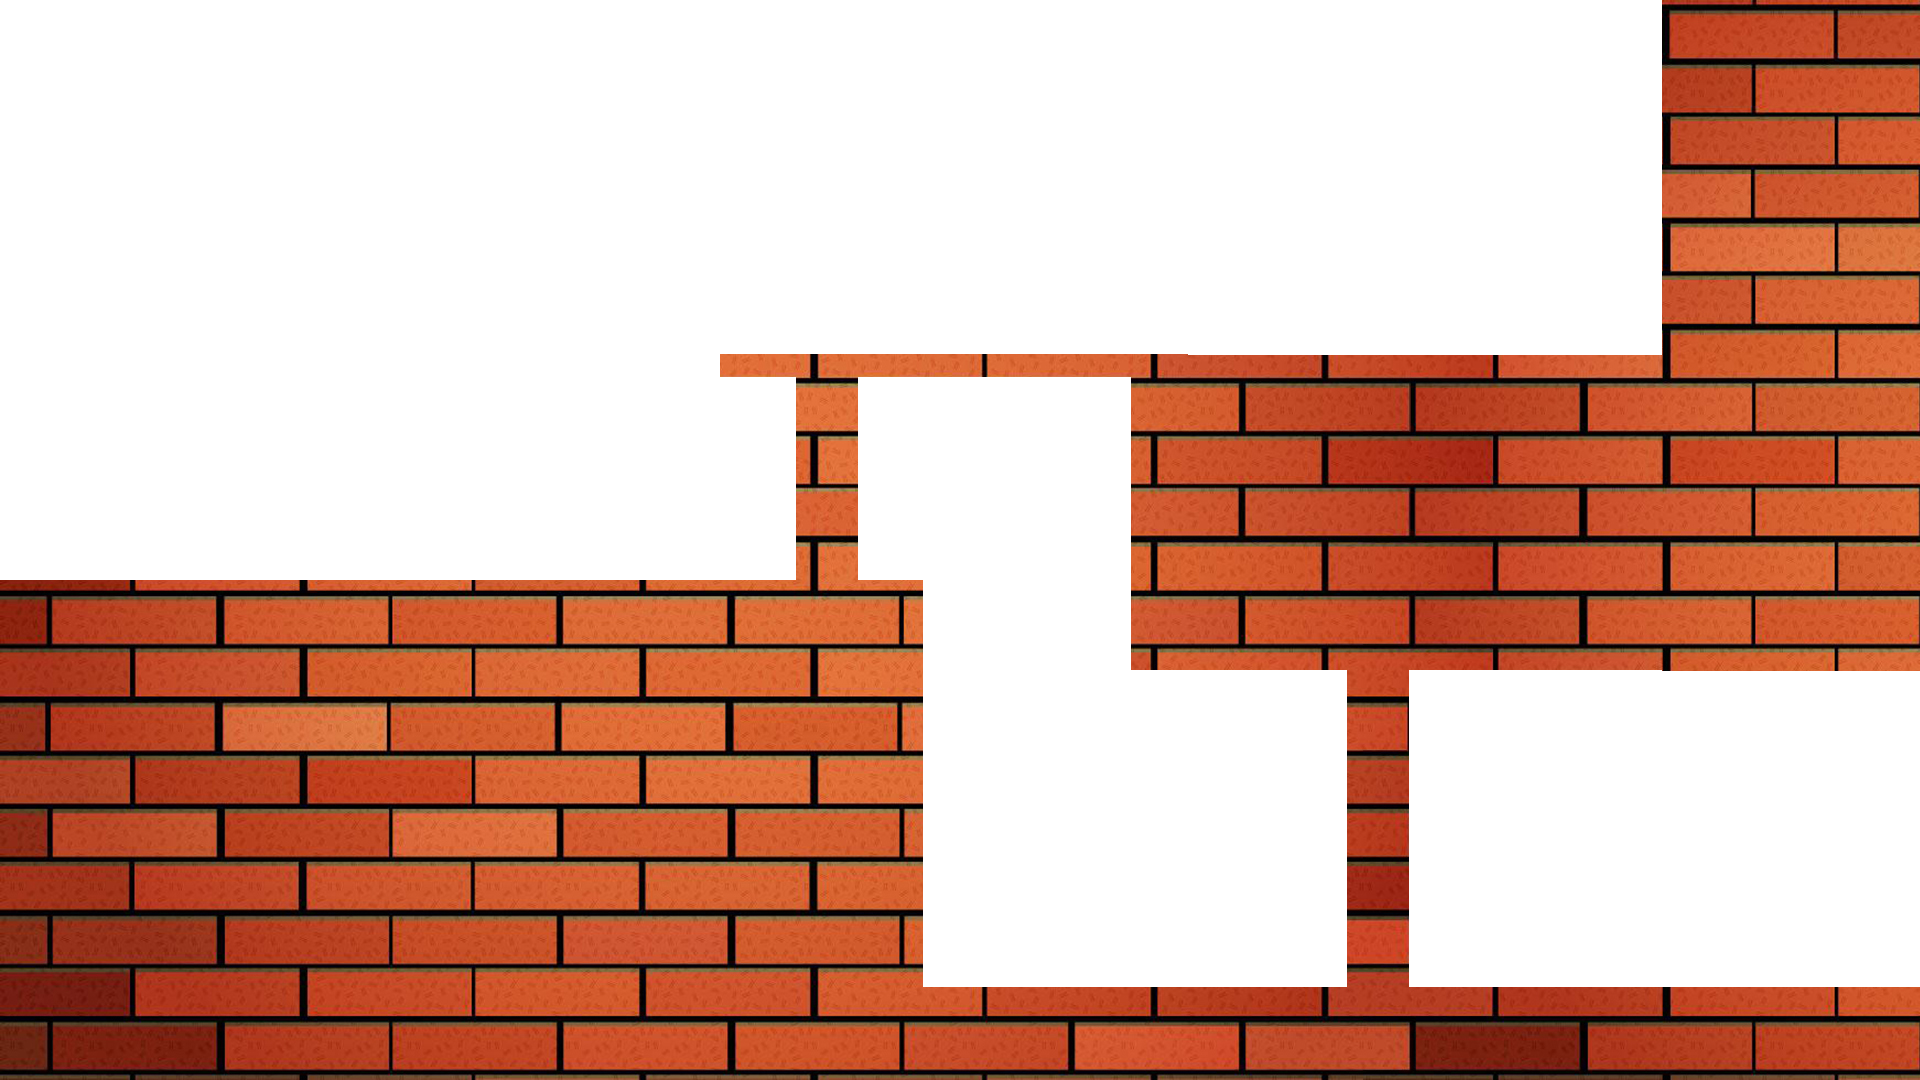
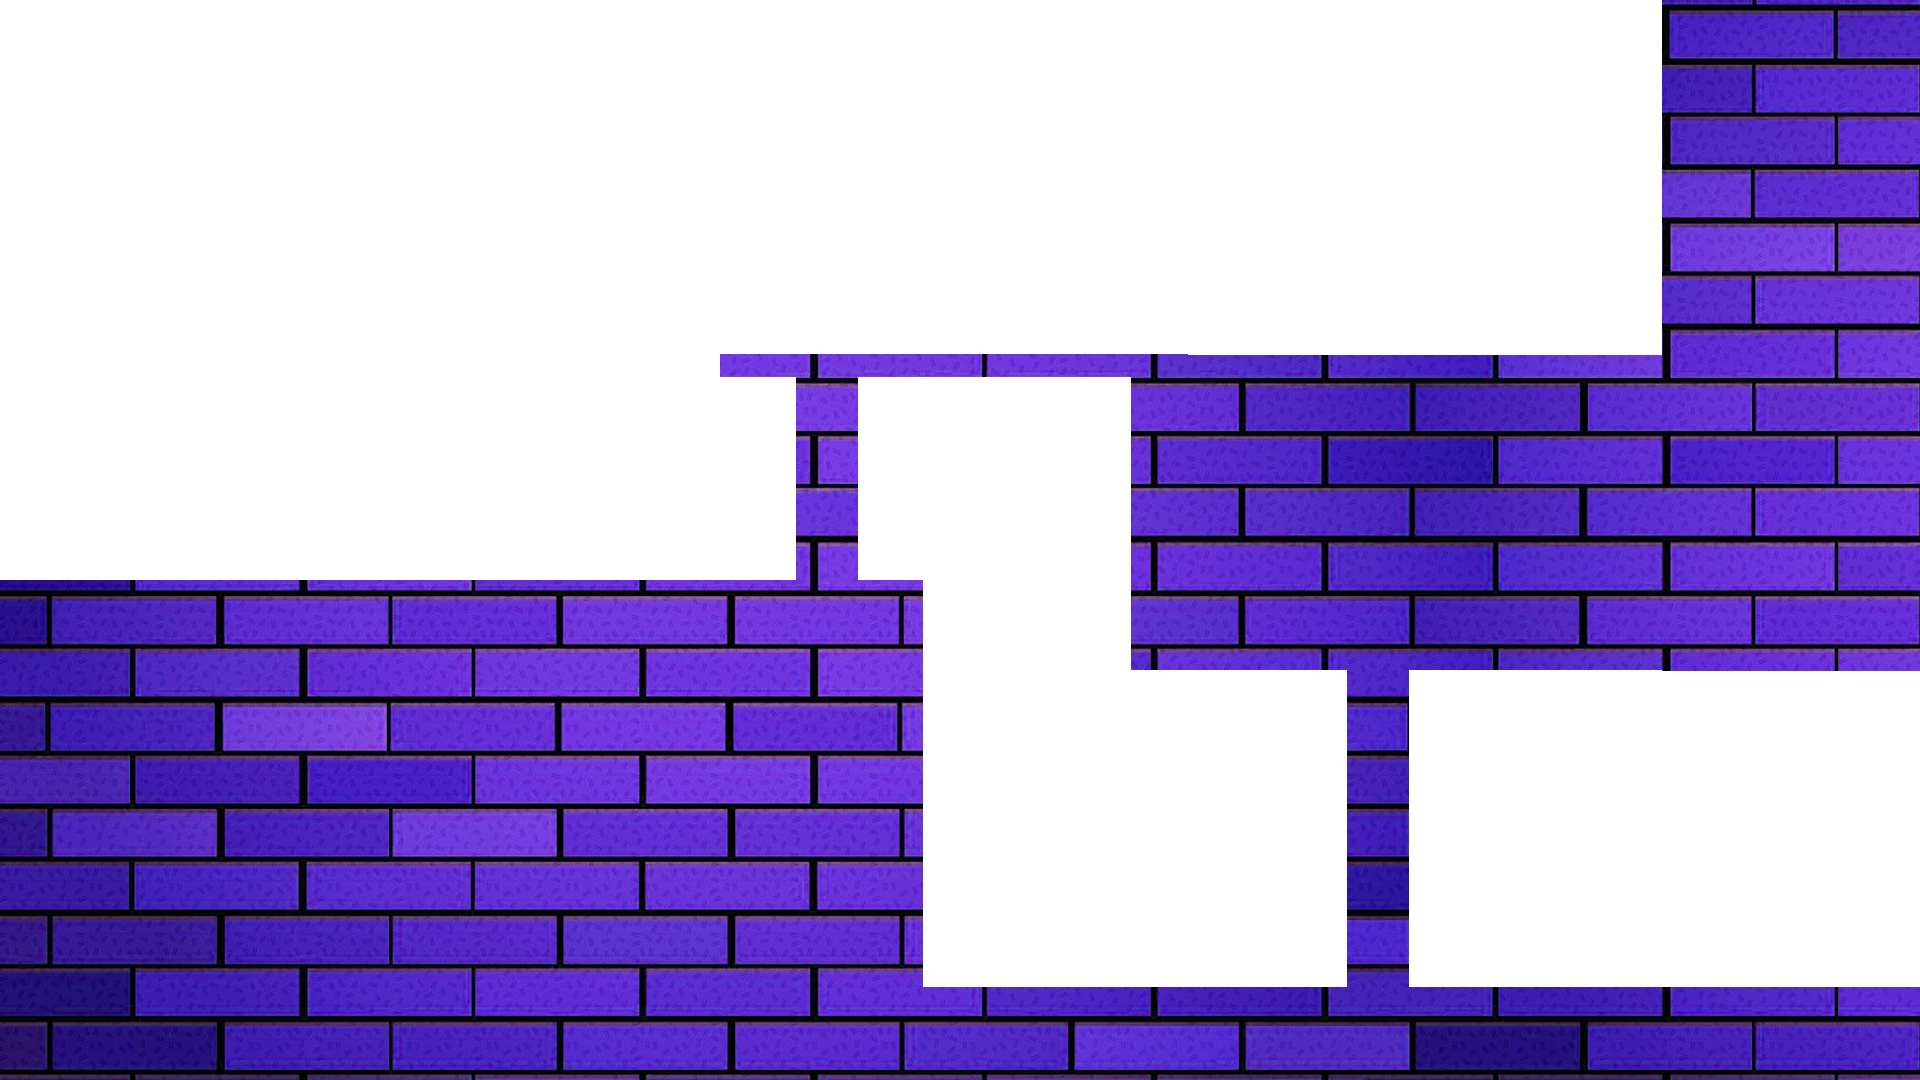
Changed colour of background from red to blue

diff --git a/main.css b/main.css
@@ -12,7 +12,7 @@ body {
 canvas {
   width: 100%;
   height: 100%;
-  background-color: black;
+  background-color: white;
 }
 div {
  
